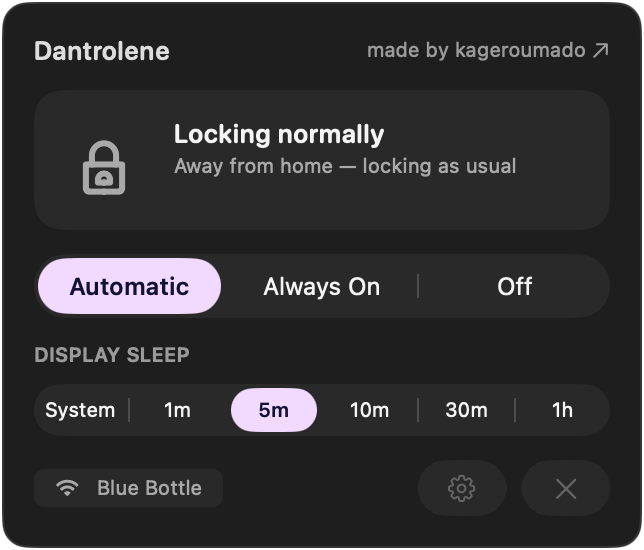
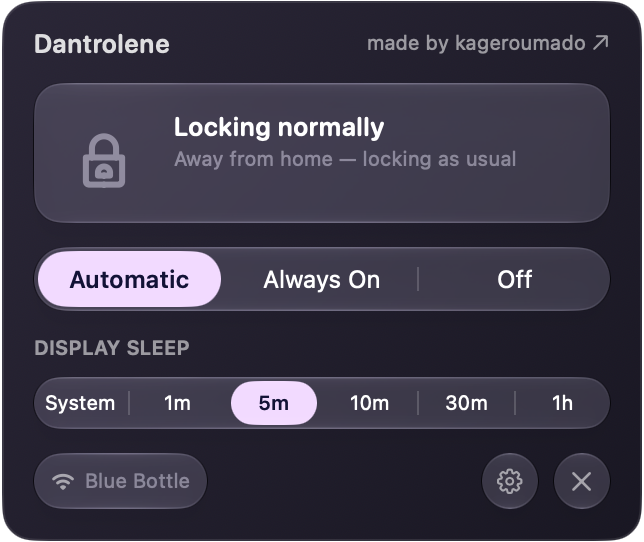
Restyle the popover for macOS 27 and re-capture the README screenshots
macOS 27 draws large `.glass` buttons as wide capsules, so Settings and Quit
no longer matched the 28 pt footer chips beside them. They and the pages' Back
button are now Propofol 0.2.1's `FooterIconButton` circles, the popover root
is a `popoverContainer()`, and its glass blend distance is zero so neighboring
controls keep their own outlines. Propofol is also linked into the app target.

The screenshot stage moves to Propofol's shared `PopoverStageWindow` with a
light and a dark window; `-DANTROLENE_GALLERY_KEY` picks the key one, since
tinted glass takes its color only there. `DANTROLENE_FAKE_ADRAFINIL` stages the
Adrafinil-installed state (a CLI that accepts every hold, lid hold on) so the
home capture shows the Lid hold chip on any Mac.

diff --git a/Dantrolene/ScreenshotGallery.swift b/Dantrolene/ScreenshotGallery.swift
@@ -1,47 +1,50 @@
 #if DEBUG
 
     import AppKit
+    import Propofol
     import SwiftUI
 
     /// A chrome-less stage for capturing clean popover screenshots.
     ///
     /// The real MenuBarExtra popover is useless for marketing captures: its vibrancy material
-    /// samples whatever happens to be behind the window (muddy grays), the system window has
-    /// its own corner treatment that captures poorly, and the window object lingers off-screen
-    /// after dismissal — `screencapture -l` happily grabs stale content.
+    /// samples whatever happens to be behind the window (muddy grays), and the window object
+    /// lingers off-screen after dismissal — `screencapture -l` happily grabs stale content.
     ///
-    /// This window shows the same `MenuBarPopoverView`, bound to the same live manager (so it
-    /// is fully interactive — click Use Current, flip toggles), on an opaque window background
-    /// with proper rounded alpha corners and no shadow. Capture it with the system screenshot
-    /// picker (⇧⌘4, space, click) or `screencapture -l <window id>`.
+    /// The stage shows the same `MenuBarPopoverView`, bound to the same live manager (so it is
+    /// fully interactive), in Propofol's `PopoverStageWindow` — one window forced light, one
+    /// forced dark. Capture with `screencapture -l <window id> -o out.png`.
     ///
     /// Present by launching with `-DANTROLENE_GALLERY 1`; pair with `DANTROLENE_FAKE_SSID` in
-    /// the environment (see `WiFiMonitor`) to stage home/away states on any machine.
+    /// the environment (see `WiFiMonitor`) to stage home/away states on any machine. Tinted
+    /// glass takes its color only in the key window, so launch once per shot with
+    /// `-DANTROLENE_GALLERY_KEY light` or `dark` and capture that window.
     @MainActor
     enum ScreenshotGallery {
-        private static var window: NSWindow?
+        private static var windows: [NSWindow] = []
 
         static func present(manager: DantroleneManager) {
-            if let window {
-                window.makeKeyAndOrderFront(nil)
+            guard windows.isEmpty else {
+                windows.forEach { $0.makeKeyAndOrderFront(nil) }
                 NSApp.activate(ignoringOtherApps: true)
                 return
             }
 
-            let hosting = NSHostingController(rootView: StageView(manager: manager))
-            let stage = KeyableBorderlessWindow(contentViewController: hosting)
-            stage.styleMask = [.borderless]
-            stage.title = "Dantrolene — Screenshot Stage"
-            stage.isOpaque = false
-            stage.backgroundColor = .clear
-            stage.hasShadow = false
-            stage.isMovableByWindowBackground = true
-            stage.isReleasedWhenClosed = false
-            stage.level = .floating
-            stage.center()
-            window = stage
-            stage.makeKeyAndOrderFront(nil)
+            let light = PopoverStageWindow(title: "Dantrolene — Stage (Light)") {
+                MenuBarPopoverView(manager: manager)
+            }
+            let dark = PopoverStageWindow(title: "Dantrolene — Stage (Dark)", dark: true) {
+                MenuBarPopoverView(manager: manager)
+            }
+            light.center()
+            let origin = light.frame.origin
+            light.setFrameOrigin(NSPoint(x: origin.x - light.frame.width * 0.7, y: origin.y))
+            dark.setFrameOrigin(NSPoint(x: origin.x + dark.frame.width * 0.7, y: origin.y))
+
+            windows = [light, dark]
+            windows.forEach { $0.orderFront(nil) }
             presentSymbolLab()
+            let darkIsKey = UserDefaults.standard.string(forKey: "DANTROLENE_GALLERY_KEY") == "dark"
+            (darkIsKey ? dark : light).makeKeyAndOrderFront(nil)
             NSApp.activate(ignoringOtherApps: true)
         }
 
@@ -145,31 +148,6 @@
                     .font(.footnote)
                     .foregroundStyle(.secondary)
             }
-        }
-    }
-
-    /// Borderless windows refuse key status by default, which would make the stage's
-    /// controls (Use Current, the toggles) unclickable.
-    private final class KeyableBorderlessWindow: NSWindow {
-        override var canBecomeKey: Bool {
-            true
-        }
-    }
-
-    private struct StageView: View {
-        @Bindable var manager: DantroleneManager
-
-        private static let cornerRadius: CGFloat = 13
-
-        var body: some View {
-            MenuBarPopoverView(manager: manager)
-                .background(Color(nsColor: .windowBackgroundColor))
-                .clipShape(RoundedRectangle(cornerRadius: Self.cornerRadius, style: .continuous))
-                .overlay {
-                    RoundedRectangle(cornerRadius: Self.cornerRadius, style: .continuous)
-                        .strokeBorder(Color(nsColor: .separatorColor), lineWidth: 1)
-                }
-                .padding(1)
         }
     }
 

diff --git a/Dantrolene/MenuBarPopoverView.swift b/Dantrolene/MenuBarPopoverView.swift
@@ -26,7 +26,9 @@ struct MenuBarPopoverView: View {
     @State private var pushing = true
 
     var body: some View {
-        GlassEffectContainer(spacing: Theme.Space.md) {
+        // Zero blend distance: the footer's controls sit closer together than any nonzero
+        // spacing would allow before their glass starts pooling into one shape.
+        GlassEffectContainer(spacing: 0) {
             ZStack(alignment: .top) {
                 switch page {
                 case .main:
@@ -44,7 +46,7 @@ struct MenuBarPopoverView: View {
                     #endif
                 }
             }
-            .padding(Theme.Space.lg)
+            .popoverContainer()
         }
         .frame(width: Theme.popoverWidth)
         .animation(reduceMotion ? nil : .smooth(duration: 0.32), value: page)
@@ -343,26 +345,16 @@ struct MenuBarPopoverView: View {
         HStack(spacing: Theme.Space.sm) {
             metaChips
             Spacer(minLength: 0)
-            HStack(spacing: Theme.Space.sm) {
-                Button {
-                    push(.settings)
-                } label: {
-                    utilityIcon("gearshape")
-                }
-                .help("Settings")
-                .accessibilityLabel("Settings")
-
-                Button {
-                    NSApplication.shared.terminate(nil)
-                } label: {
-                    utilityIcon("xmark")
-                }
-                .keyboardShortcut("q")
-                .help("Quit Dantrolene")
-                .accessibilityLabel("Quit Dantrolene")
+            FooterIconButton("Settings", systemImage: "gearshape") {
+                push(.settings)
             }
-            .buttonStyle(.glass)
-            .controlSize(.large)
+            .help("Settings")
+
+            FooterIconButton("Quit Dantrolene", systemImage: "xmark") {
+                NSApplication.shared.terminate(nil)
+            }
+            .keyboardShortcut("q")
+            .help("Quit Dantrolene")
         }
     }
 
@@ -384,12 +376,5 @@ struct MenuBarPopoverView: View {
                 }
             #endif
         }
-    }
-
-    /// A glyph for the bottom-bar utility buttons, pinned to a fixed square so both `.glass`
-    /// capsules come out the same size regardless of glyph proportions.
-    private func utilityIcon(_ name: String) -> some View {
-        Image(systemName: name)
-            .frame(width: 16, height: 16)
     }
 }

diff --git a/Dantrolene/AdrafinilBridge.swift b/Dantrolene/AdrafinilBridge.swift
@@ -297,6 +297,13 @@ import os
         }
 
         private static func locateCLI() -> String? {
+            #if DEBUG
+                // Screenshot staging: a CLI that accepts every hold, so the Adrafinil-installed
+                // states render on a Mac without Adrafinil (paired with ScreenshotGallery).
+                if ProcessInfo.processInfo.environment["DANTROLENE_FAKE_ADRAFINIL"] != nil {
+                    return "/usr/bin/true"
+                }
+            #endif
             var candidates = Constants.installPaths
             if let path = ProcessInfo.processInfo.environment["PATH"] {
                 candidates += path.split(separator: ":").map { "\($0)/adrafinil" }

diff --git a/Dantrolene/DantroleneManager.swift b/Dantrolene/DantroleneManager.swift
@@ -178,6 +178,13 @@ final class DantroleneManager {
         }
 
         self.blockLidCloseSleep = UserDefaults.standard.bool(forKey: Keys.blockLidCloseSleep)
+        #if DEBUG
+            // Screenshot staging: a staged Adrafinil (see `AdrafinilBridge`) comes with the lid
+            // hold on. Assigned in init, so it is never persisted.
+            if ProcessInfo.processInfo.environment["DANTROLENE_FAKE_ADRAFINIL"] != nil {
+                self.blockLidCloseSleep = true
+            }
+        #endif
         self.launchAtLogin = SMAppService.mainApp.status == .enabled
 
         lockPreventer.onStateChanged = { [weak self] isActive in

diff --git a/Dantrolene/PopoverPages.swift b/Dantrolene/PopoverPages.swift
@@ -354,13 +354,7 @@ struct NavHeader: View {
 
     var body: some View {
         HStack(spacing: Theme.Space.sm + 2) {
-            Button(action: onBack) {
-                Image(systemName: "chevron.left")
-                    .font(.footnote.weight(.semibold))
-                    .frame(width: 12, height: 12)
-            }
-            .buttonStyle(.glass)
-            .accessibilityLabel("Back")
+            FooterIconButton("Back", systemImage: "chevron.left", action: onBack)
 
             Text(title)
                 .font(.heroTitle)
